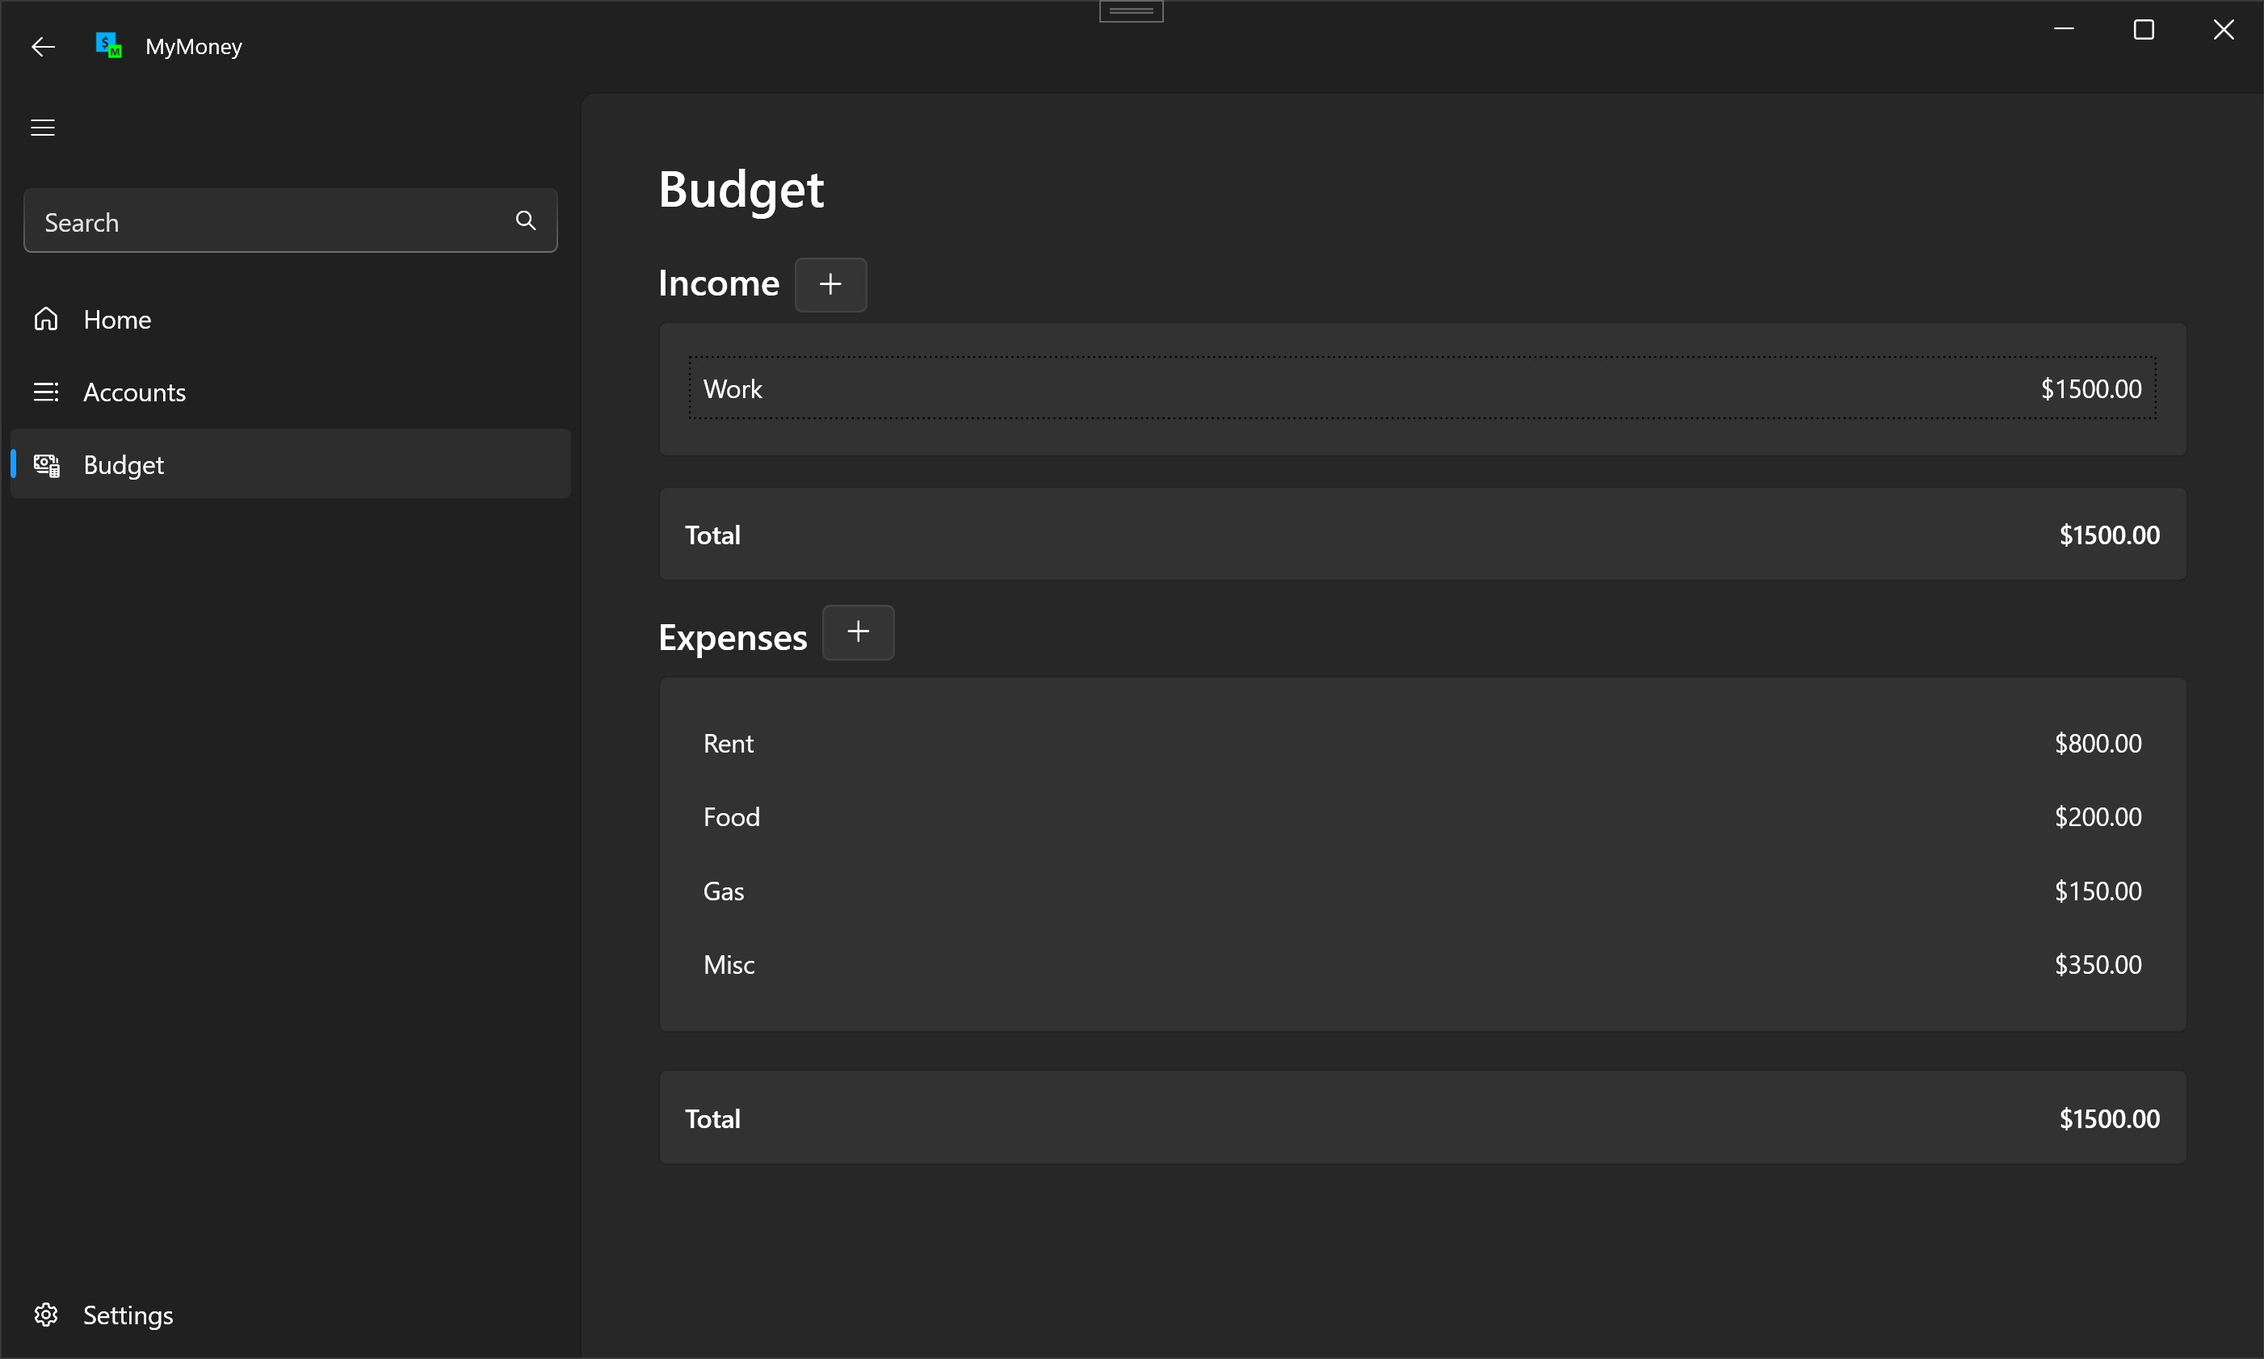
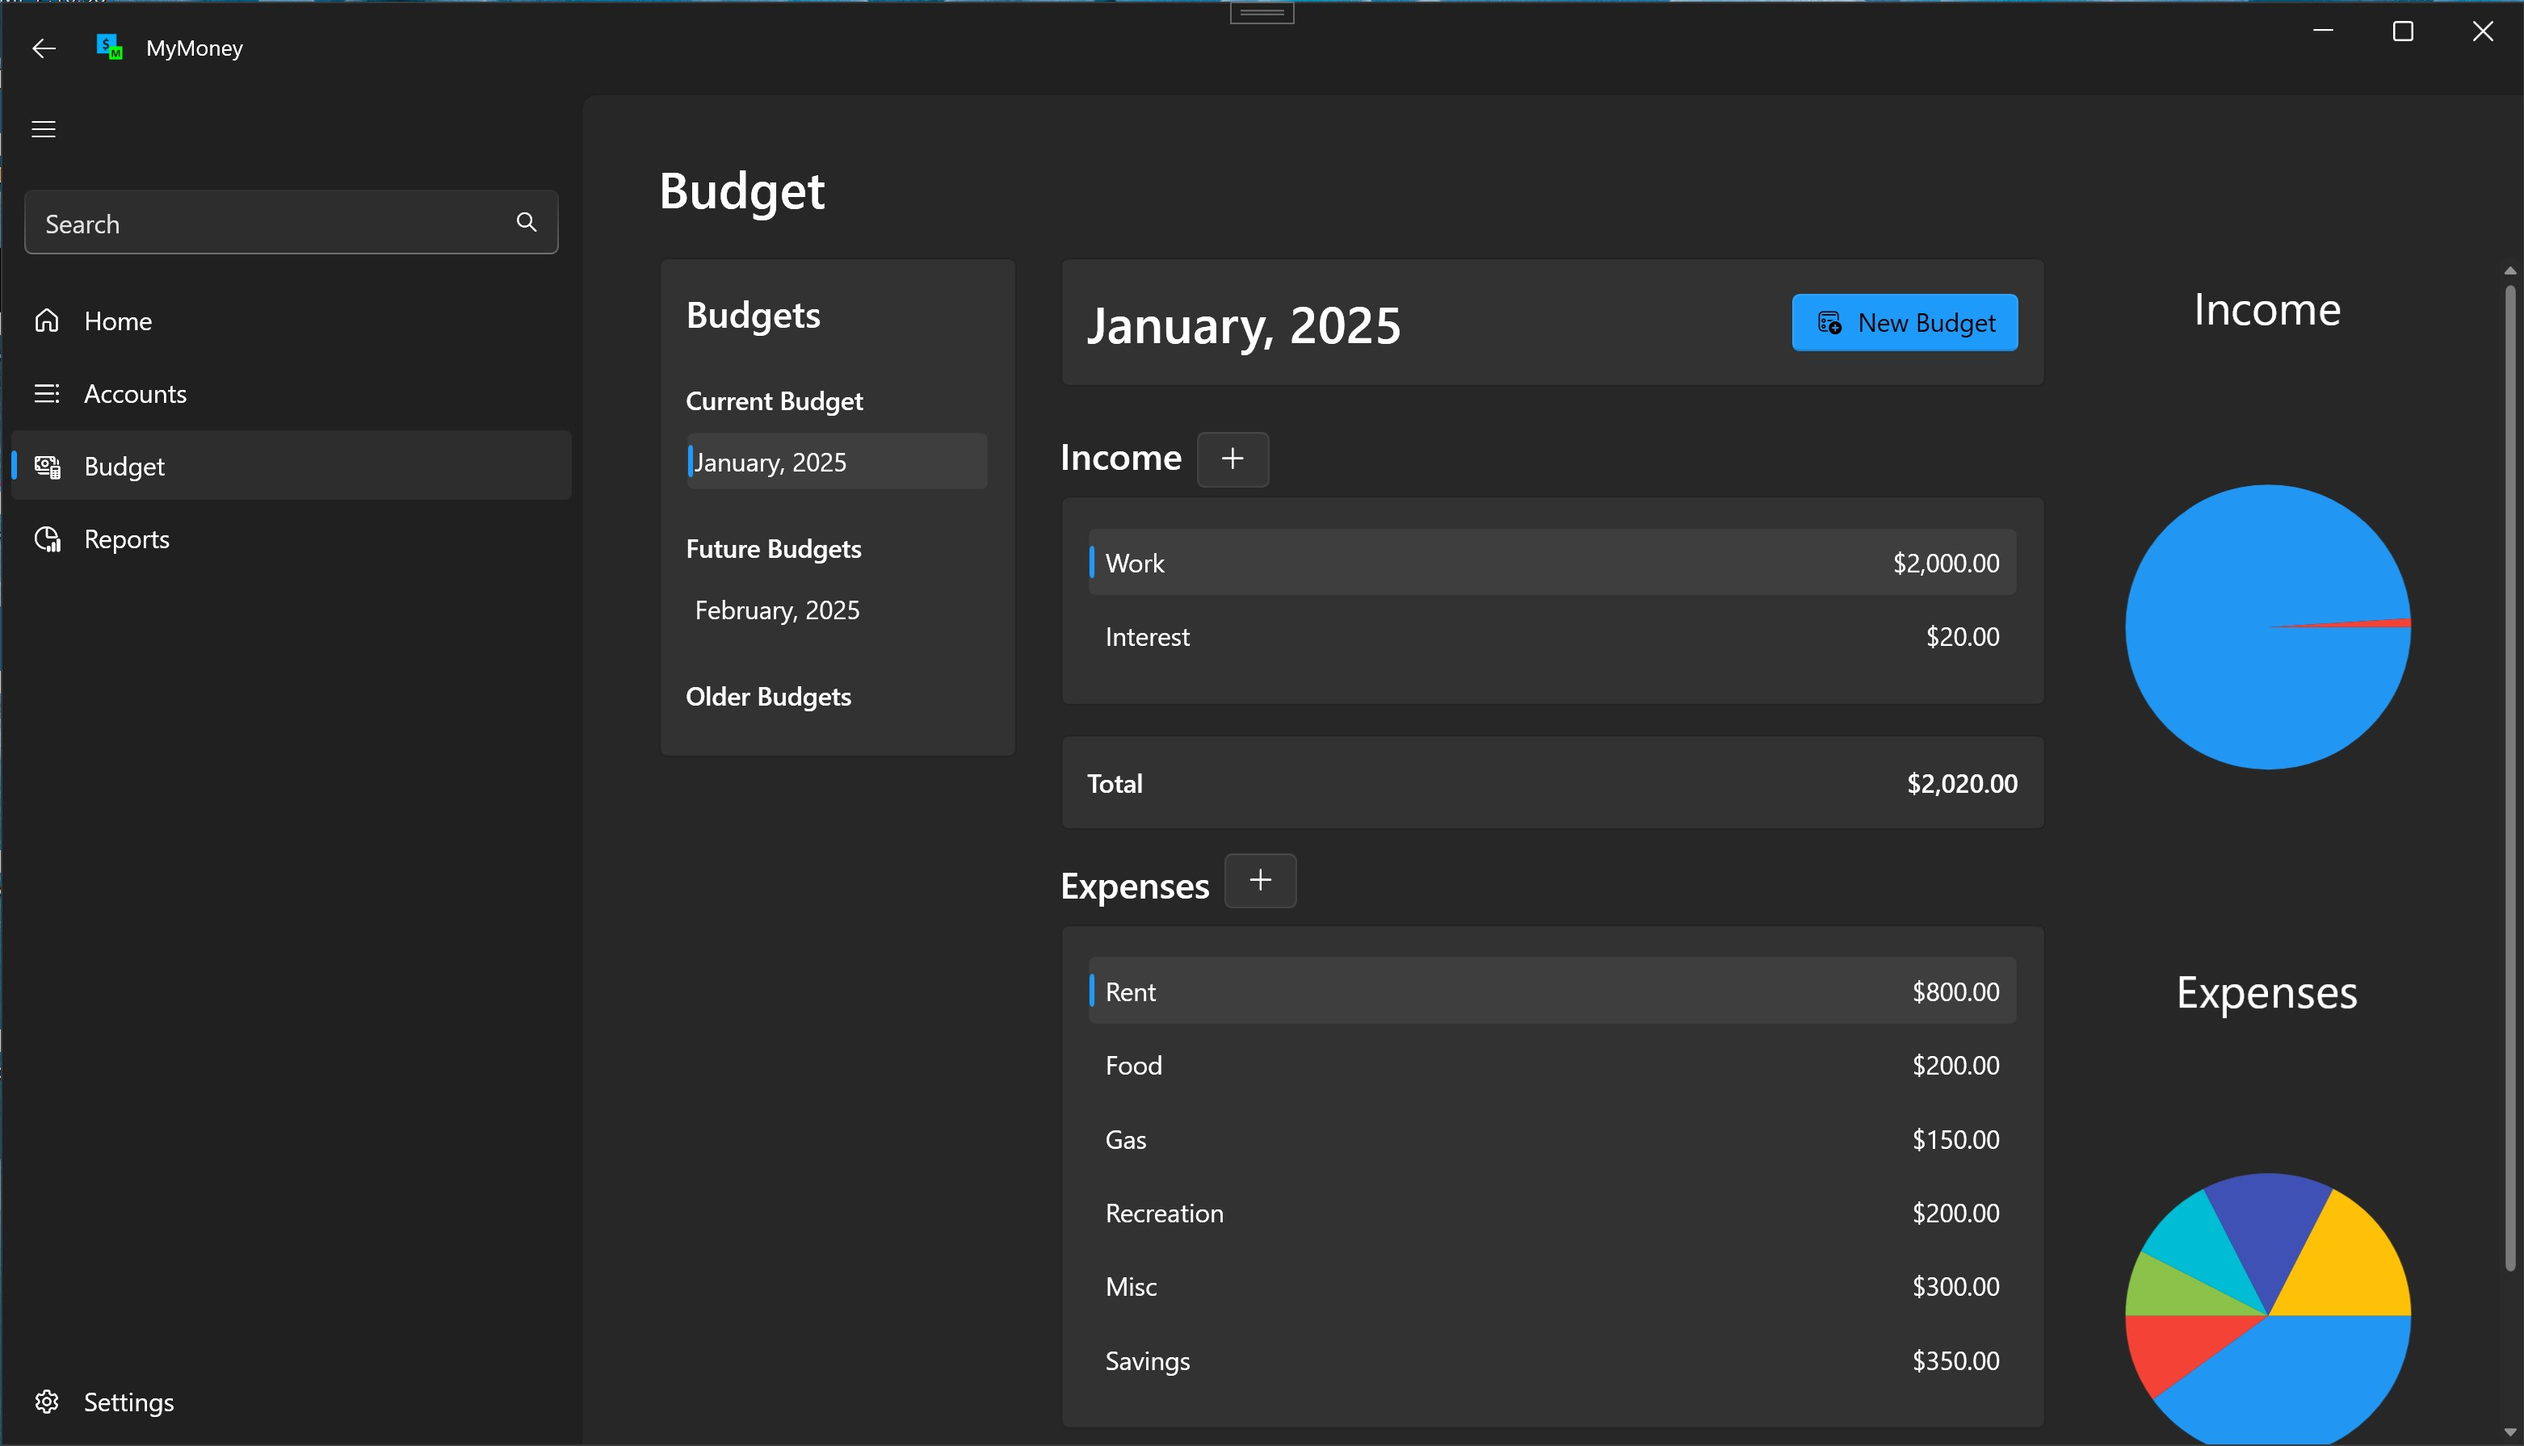
Release version 0.3.0

diff --git a/README.md b/README.md
@@ -11,15 +11,17 @@ MyMoney is a personal accounting software designed to help you manage your finan
 - **Account Management**: Add, edit, and remove accounts.
 - **Transaction Tracking**: Record and categorize income and expenses.
 - **Balance Calculation**: Automatically calculates and displays account balances.
+- **Budgeting**: Create monthly budgets and view reports on your spending.
 - **LiteDB Database**: All user data is stored securely in a local LiteDB database.
 - **MVVM Pattern**: Built using the MVVM pattern for a clean, maintainable, and testable architecture.
 - **WPF UI**: A modern user interface built with WPF, leveraging the WPF-UI package for enhanced visuals.
   
 ## Usage
 - Create a new account by selecting Add Account.
-- Setup a budget on the budget page by adding income and expense categories.
+- Setup a budget on the budget page by clicking ```New Budget``` and adding income and expense categories.
 - Add transactions to your account, specifying the amount, date, and category.
-- Review the balance and transaction history in the main dashboard.
+- Review the balance and budget report in the main dashboard.
+- Look at reports and charts on the Reports page.
 
 ## Contributing
 Contributions are welcome! Feel free to open issues or submit pull requests to improve MyMoney.
@@ -37,3 +39,6 @@ This project is licensed under the MIT License. See the LICENSE.txt file for mor
 
 ### Budget Page
 ![Budget page](Screenshots/budget_page.jpg)
+
+### Reports Page
+![Reports page](Screenshots/reports_page.jpg)
